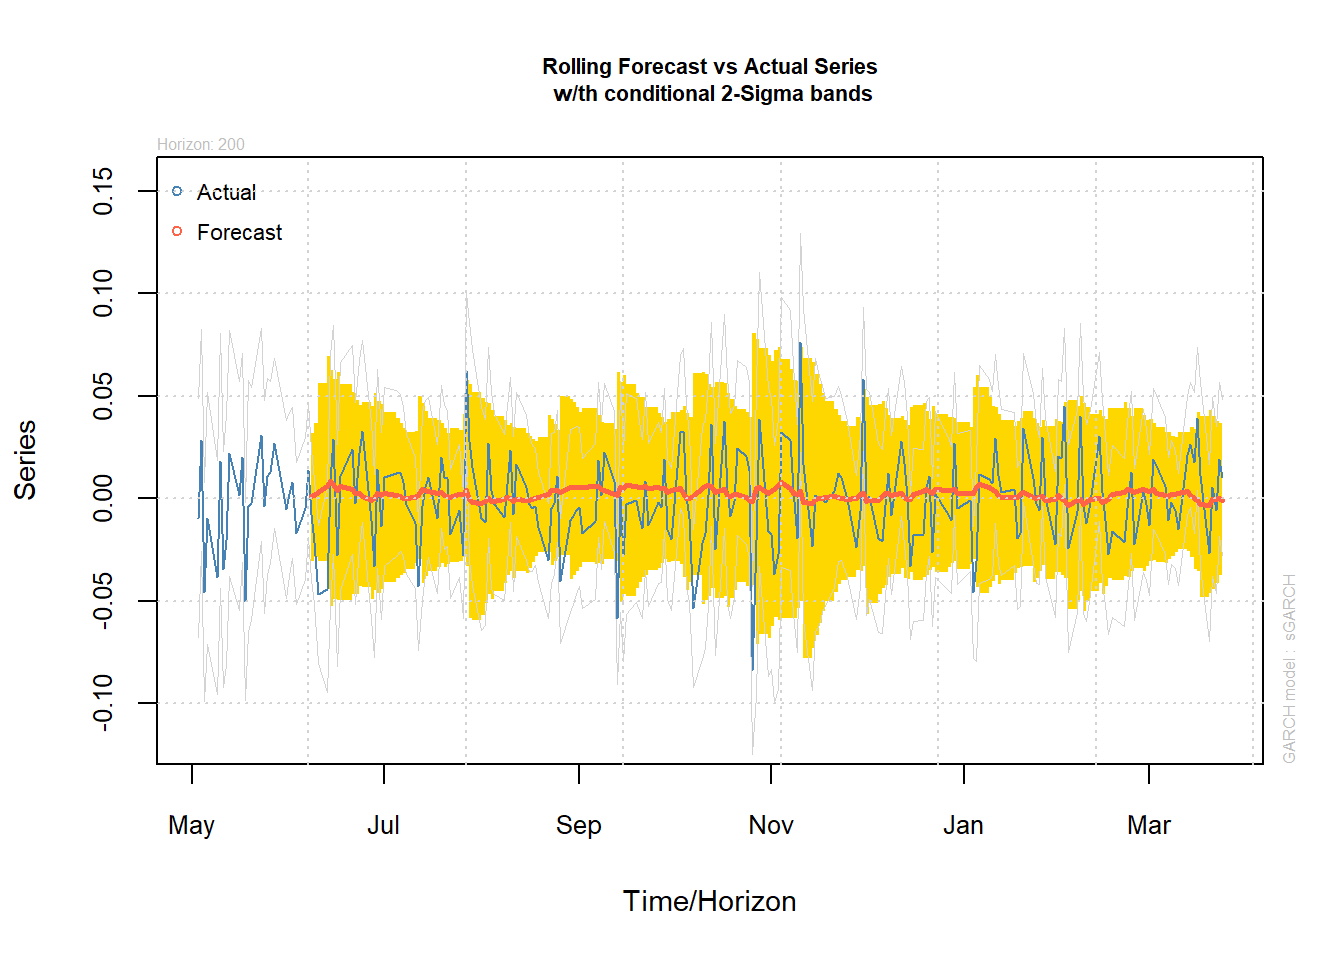
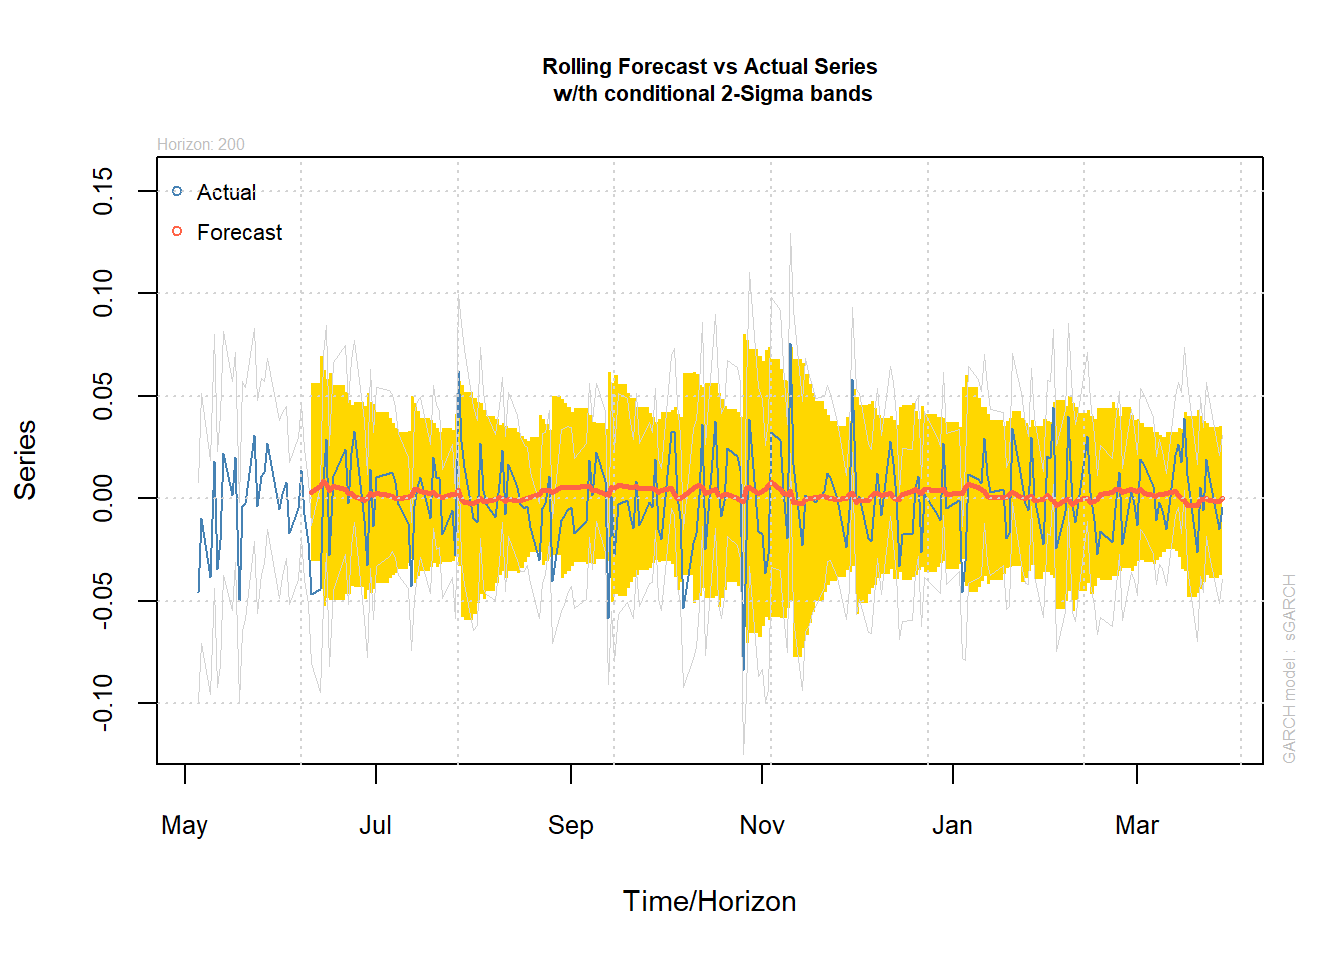
omega

diff --git a/docs/9_forecasting_garch_R.html b/docs/9_forecasting_garch_R.html
@@ -495,57 +495,57 @@ Distribution    : norm
 Optimal Parameters
 ------------------------------------
         Estimate  Std. Error  t value Pr(&gt;|t|)
-omega   0.000024    0.000004   5.6205        0
-alpha1  0.192305    0.029017   6.6273        0
-beta1   0.733335    0.033104  22.1526        0
+omega   0.000024    0.000004   5.6082        0
+alpha1  0.192000    0.029017   6.6167        0
+beta1   0.733769    0.033129  22.1490        0
 
 Robust Standard Errors:
         Estimate  Std. Error  t value Pr(&gt;|t|)
-omega   0.000024    0.000008   2.8792 0.003987
-alpha1  0.192305    0.048982   3.9260 0.000086
-beta1   0.733335    0.054924  13.3519 0.000000
+omega   0.000024    0.000008   2.8702 0.004102
+alpha1  0.192000    0.049013   3.9173 0.000090
+beta1   0.733769    0.055023  13.3356 0.000000
 
-LogLikelihood : 5177.554 
+LogLikelihood : 5182.908 
 
 Information Criteria
 ------------------------------------
                     
-Akaike       -5.5343
-Bayes        -5.5254
-Shibata      -5.5343
-Hannan-Quinn -5.5310
+Akaike       -5.5341
+Bayes        -5.5252
+Shibata      -5.5341
+Hannan-Quinn -5.5308
 
 Weighted Ljung-Box Test on Standardized Residuals
 ------------------------------------
                         statistic  p-value
-Lag[1]                      7.953 0.004800
-Lag[2*(p+q)+(p+q)-1][2]     7.978 0.006556
-Lag[4*(p+q)+(p+q)-1][5]     8.647 0.020309
+Lag[1]                      7.889 0.004973
+Lag[2*(p+q)+(p+q)-1][2]     7.920 0.006791
+Lag[4*(p+q)+(p+q)-1][5]     8.621 0.020627
 d.o.f=0
 H0 : No serial correlation
 
 Weighted Ljung-Box Test on Standardized Squared Residuals
 ------------------------------------
                         statistic p-value
-Lag[1]                     0.3519  0.5530
-Lag[2*(p+q)+(p+q)-1][5]    0.8785  0.8865
-Lag[4*(p+q)+(p+q)-1][9]    1.6848  0.9391
+Lag[1]                     0.3520  0.5530
+Lag[2*(p+q)+(p+q)-1][5]    0.8768  0.8869
+Lag[4*(p+q)+(p+q)-1][9]    1.6839  0.9392
 d.o.f=2
 
 Weighted ARCH LM Tests
 ------------------------------------
             Statistic Shape Scale P-Value
-ARCH Lag[3]   0.08401 0.500 2.000  0.7719
-ARCH Lag[5]   0.32313 1.440 1.667  0.9340
-ARCH Lag[7]   0.66864 2.315 1.543  0.9607
+ARCH Lag[3]   0.08574 0.500 2.000  0.7697
+ARCH Lag[5]   0.32698 1.440 1.667  0.9330
+ARCH Lag[7]   0.67531 2.315 1.543  0.9599
 
 Nyblom stability test
 ------------------------------------
-Joint Statistic:  0.7621
+Joint Statistic:  0.7671
 Individual Statistics:             
-omega  0.2437
+omega  0.2431
 alpha1 0.1213
-beta1  0.1726
+beta1  0.1731
 
 Asymptotic Critical Values (10% 5% 1%)
 Joint Statistic:         0.846 1.01 1.35
@@ -554,22 +554,22 @@ Individual Statistic:    0.35 0.47 0.75
 Sign Bias Test
 ------------------------------------
                    t-value   prob sig
-Sign Bias           0.2343 0.8148    
-Negative Sign Bias  0.8717 0.3835    
-Positive Sign Bias  0.5900 0.5553    
-Joint Effect        1.4856 0.6856    
+Sign Bias           0.2200 0.8259    
+Negative Sign Bias  0.8706 0.3841    
+Positive Sign Bias  0.5887 0.5561    
+Joint Effect        1.5046 0.6812    
 
 
 Adjusted Pearson Goodness-of-Fit Test:
 ------------------------------------
   group statistic p-value(g-1)
-1    20     134.2    2.337e-19
-2    30     151.1    1.867e-18
-3    40     149.8    6.698e-15
-4    50     173.5    8.176e-16
+1    20     132.5    4.926e-19
+2    30     148.2    6.096e-18
+3    40     148.2    1.243e-14
+4    50     171.9    1.450e-15
 
 
-Elapsed time : 0.135313 </code></pre>
+Elapsed time : 0.1032512 </code></pre>
 </div>
 </div>
 <p>It is very long with a lot of test results, but the main infromation is the parameter estimates. In this case, we estimate a model with <span class="math inline">\omega = 0.000019</span>, <span class="math inline">\alpha_1 = 0.162506</span> and <span class="math inline">\beta_1 = 0.783419</span>. Note that <span class="math inline">\alpha_1+\beta_1 = 0.946 &lt;1</span>, indicating that we have a stationary GARCH(1,1) model (given other model assumptions are fulfilled).</p>
@@ -652,8 +652,8 @@ Elapsed time : 0.135313 </code></pre>
 <div class="cell">
 <div class="sourceCode cell-code" id="cb12"><pre class="sourceCode r code-with-copy"><code class="sourceCode r"><span id="cb12-1"><a href="#cb12-1" aria-hidden="true" tabindex="-1"></a><span class="fu">fpm</span>(fc) <span class="co"># forecast performance measures</span></span></code><button title="Copy to Clipboard" class="code-copy-button"><i class="bi"></i></button></pre></div>
 <div class="cell-output cell-output-stdout">
-<pre><code>           MSE        MAE DAC
-1 0.0004709056 0.01644535   0</code></pre>
+<pre><code>          MSE        MAE DAC
+1 0.000469591 0.01639728   0</code></pre>
 </div>
 </div>
 <p>We can simulate from a fitted model using the <em>ugarchsim</em> function. Check out the help file.</p>
@@ -685,9 +685,9 @@ Elapsed time : 0.135313 </code></pre>
 <div class="sourceCode cell-code" id="cb16"><pre class="sourceCode r code-with-copy"><code class="sourceCode r"><span id="cb16-1"><a href="#cb16-1" aria-hidden="true" tabindex="-1"></a><span class="fu">rbind</span>(<span class="st">"GARCH"</span><span class="ot">=</span><span class="fu">fpm</span>(fc),</span>
 <span id="cb16-2"><a href="#cb16-2" aria-hidden="true" tabindex="-1"></a>      <span class="st">"ARMA-GARCH"</span><span class="ot">=</span><span class="fu">fpm</span>(fc3))</span></code><button title="Copy to Clipboard" class="code-copy-button"><i class="bi"></i></button></pre></div>
 <div class="cell-output cell-output-stdout">
-<pre><code>                    MSE        MAE   DAC
-GARCH      0.0004709056 0.01644535 0.000
-ARMA-GARCH 0.0004741512 0.01663903 0.505</code></pre>
+<pre><code>                   MSE        MAE  DAC
+GARCH      0.000469591 0.01639728 0.00
+ARMA-GARCH 0.000472206 0.01657505 0.51</code></pre>
 </div>
 </div>
 <p>It seems the pure GARCH model is better, except for the directional accuracy. Accurately predicting the return of tomorrows is difficult. But there may be other contexts where an ARMA-GARCH model is more suited.</p>

diff --git a/docs/9_garch.html b/docs/9_garch.html
@@ -485,15 +485,15 @@ y_t &amp;= \sigma_t\,\varepsilon_t,\\
 <span id="cb1-3"><a href="#cb1-3" aria-hidden="true" tabindex="-1"></a><span class="co"># Setting seed for reproduciblity</span></span>
 <span id="cb1-4"><a href="#cb1-4" aria-hidden="true" tabindex="-1"></a><span class="fu">set.seed</span>(<span class="dv">12345</span>)</span>
 <span id="cb1-5"><a href="#cb1-5" aria-hidden="true" tabindex="-1"></a>nT <span class="ot">=</span> <span class="dv">1000</span></span>
-<span id="cb1-6"><a href="#cb1-6" aria-hidden="true" tabindex="-1"></a>a0 <span class="ot">=</span> <span class="fl">1.</span></span>
+<span id="cb1-6"><a href="#cb1-6" aria-hidden="true" tabindex="-1"></a>omg <span class="ot">=</span> <span class="fl">1.2</span></span>
 <span id="cb1-7"><a href="#cb1-7" aria-hidden="true" tabindex="-1"></a>a1 <span class="ot">=</span> <span class="fl">0.4</span></span>
 <span id="cb1-8"><a href="#cb1-8" aria-hidden="true" tabindex="-1"></a>b1 <span class="ot">=</span> <span class="fl">0.5</span></span>
 <span id="cb1-9"><a href="#cb1-9" aria-hidden="true" tabindex="-1"></a><span class="co"># Initiating y and sigma</span></span>
-<span id="cb1-10"><a href="#cb1-10" aria-hidden="true" tabindex="-1"></a>y <span class="ot">&lt;-</span> sig <span class="ot">&lt;-</span> <span class="fu">rep</span>(<span class="fu">sqrt</span>(a0<span class="sc">/</span>(<span class="dv">1</span><span class="sc">-</span>a1<span class="sc">-</span>b1)),</span>
+<span id="cb1-10"><a href="#cb1-10" aria-hidden="true" tabindex="-1"></a>y <span class="ot">&lt;-</span> sig <span class="ot">&lt;-</span> <span class="fu">rep</span>(<span class="fu">sqrt</span>(omg<span class="sc">/</span>(<span class="dv">1</span><span class="sc">-</span>a1<span class="sc">-</span>b1)),</span>
 <span id="cb1-11"><a href="#cb1-11" aria-hidden="true" tabindex="-1"></a>                nT)</span>
 <span id="cb1-12"><a href="#cb1-12" aria-hidden="true" tabindex="-1"></a><span class="co"># Simulation: </span></span>
 <span id="cb1-13"><a href="#cb1-13" aria-hidden="true" tabindex="-1"></a><span class="cf">for</span>(t <span class="cf">in</span> <span class="dv">2</span><span class="sc">:</span>nT){</span>
-<span id="cb1-14"><a href="#cb1-14" aria-hidden="true" tabindex="-1"></a>  sig[t] <span class="ot">&lt;-</span> <span class="fu">sqrt</span>(a0<span class="sc">+</span>a1<span class="sc">*</span>y[t<span class="dv">-1</span>]<span class="sc">^</span><span class="dv">2</span><span class="sc">+</span>b1<span class="sc">*</span>sig[t<span class="dv">-1</span>]<span class="sc">^</span><span class="dv">2</span>)</span>
+<span id="cb1-14"><a href="#cb1-14" aria-hidden="true" tabindex="-1"></a>  sig[t] <span class="ot">&lt;-</span> <span class="fu">sqrt</span>(omg<span class="sc">+</span>a1<span class="sc">*</span>y[t<span class="dv">-1</span>]<span class="sc">^</span><span class="dv">2</span><span class="sc">+</span>b1<span class="sc">*</span>sig[t<span class="dv">-1</span>]<span class="sc">^</span><span class="dv">2</span>)</span>
 <span id="cb1-15"><a href="#cb1-15" aria-hidden="true" tabindex="-1"></a>  y[t]   <span class="ot">&lt;-</span> sig[t]<span class="sc">*</span><span class="fu">rnorm</span>(<span class="dv">1</span>)</span>
 <span id="cb1-16"><a href="#cb1-16" aria-hidden="true" tabindex="-1"></a>}</span>
 <span id="cb1-17"><a href="#cb1-17" aria-hidden="true" tabindex="-1"></a><span class="co"># tsibble object: </span></span>

diff --git a/docs/9_arch.html b/docs/9_arch.html
@@ -487,14 +487,14 @@ y_t &amp;= \sigma_t \varepsilon_t,\\
 <span id="cb1-3"><a href="#cb1-3" aria-hidden="true" tabindex="-1"></a><span class="co"># Setting seed for reproduciblity</span></span>
 <span id="cb1-4"><a href="#cb1-4" aria-hidden="true" tabindex="-1"></a><span class="fu">set.seed</span>(<span class="dv">12345</span>)</span>
 <span id="cb1-5"><a href="#cb1-5" aria-hidden="true" tabindex="-1"></a>nT <span class="ot">=</span> <span class="dv">1000</span></span>
-<span id="cb1-6"><a href="#cb1-6" aria-hidden="true" tabindex="-1"></a>a0 <span class="ot">=</span> <span class="fl">1.4</span></span>
+<span id="cb1-6"><a href="#cb1-6" aria-hidden="true" tabindex="-1"></a>omg <span class="ot">=</span> <span class="fl">1.4</span></span>
 <span id="cb1-7"><a href="#cb1-7" aria-hidden="true" tabindex="-1"></a>a1 <span class="ot">=</span> <span class="fl">0.95</span></span>
 <span id="cb1-8"><a href="#cb1-8" aria-hidden="true" tabindex="-1"></a><span class="co"># Initiating y and sigma</span></span>
-<span id="cb1-9"><a href="#cb1-9" aria-hidden="true" tabindex="-1"></a>y <span class="ot">&lt;-</span> sig <span class="ot">&lt;-</span> <span class="fu">rep</span>(<span class="fu">sqrt</span>(a0<span class="sc">/</span>(<span class="dv">1</span><span class="sc">-</span>a1)),</span>
+<span id="cb1-9"><a href="#cb1-9" aria-hidden="true" tabindex="-1"></a>y <span class="ot">&lt;-</span> sig <span class="ot">&lt;-</span> <span class="fu">rep</span>(<span class="fu">sqrt</span>(omg<span class="sc">/</span>(<span class="dv">1</span><span class="sc">-</span>a1)),</span>
 <span id="cb1-10"><a href="#cb1-10" aria-hidden="true" tabindex="-1"></a>                nT)</span>
 <span id="cb1-11"><a href="#cb1-11" aria-hidden="true" tabindex="-1"></a><span class="co"># Simulation: </span></span>
 <span id="cb1-12"><a href="#cb1-12" aria-hidden="true" tabindex="-1"></a><span class="cf">for</span>(t <span class="cf">in</span> <span class="dv">2</span><span class="sc">:</span>nT){</span>
-<span id="cb1-13"><a href="#cb1-13" aria-hidden="true" tabindex="-1"></a>  sig[t] <span class="ot">&lt;-</span> <span class="fu">sqrt</span>(a0<span class="sc">+</span>a1<span class="sc">*</span>y[t<span class="dv">-1</span>]<span class="sc">^</span><span class="dv">2</span>)</span>
+<span id="cb1-13"><a href="#cb1-13" aria-hidden="true" tabindex="-1"></a>  sig[t] <span class="ot">&lt;-</span> <span class="fu">sqrt</span>(omg<span class="sc">+</span>a1<span class="sc">*</span>y[t<span class="dv">-1</span>]<span class="sc">^</span><span class="dv">2</span>)</span>
 <span id="cb1-14"><a href="#cb1-14" aria-hidden="true" tabindex="-1"></a>  y[t]   <span class="ot">&lt;-</span> sig[t]<span class="sc">*</span><span class="fu">rnorm</span>(<span class="dv">1</span>)</span>
 <span id="cb1-15"><a href="#cb1-15" aria-hidden="true" tabindex="-1"></a>}</span>
 <span id="cb1-16"><a href="#cb1-16" aria-hidden="true" tabindex="-1"></a><span class="co"># tsibble object: </span></span>

diff --git a/docs/3_exercises.html b/docs/3_exercises.html
@@ -647,7 +647,7 @@ Solution
 <span id="cb18-4"><a href="#cb18-4" aria-hidden="true" tabindex="-1"></a>  <span class="fu">pull</span>(lambda_guerrero)</span>
 <span id="cb18-5"><a href="#cb18-5" aria-hidden="true" tabindex="-1"></a>lambda</span></code><button title="Copy to Clipboard" class="code-copy-button"><i class="bi"></i></button></pre></div>
 <div class="cell-output cell-output-stdout">
-<pre><code>[1] 0.4980786</code></pre>
+<pre><code>[1] 0.468572</code></pre>
 </div>
 <div class="sourceCode cell-code" id="cb20"><pre class="sourceCode r code-with-copy"><code class="sourceCode r"><span id="cb20-1"><a href="#cb20-1" aria-hidden="true" tabindex="-1"></a>close.price <span class="ot">&lt;-</span> close.price <span class="sc">%&gt;%</span></span>
 <span id="cb20-2"><a href="#cb20-2" aria-hidden="true" tabindex="-1"></a>  <span class="fu">mutate</span>(<span class="at">boxcox =</span> <span class="fu">box_cox</span>(close,lambda))</span>
